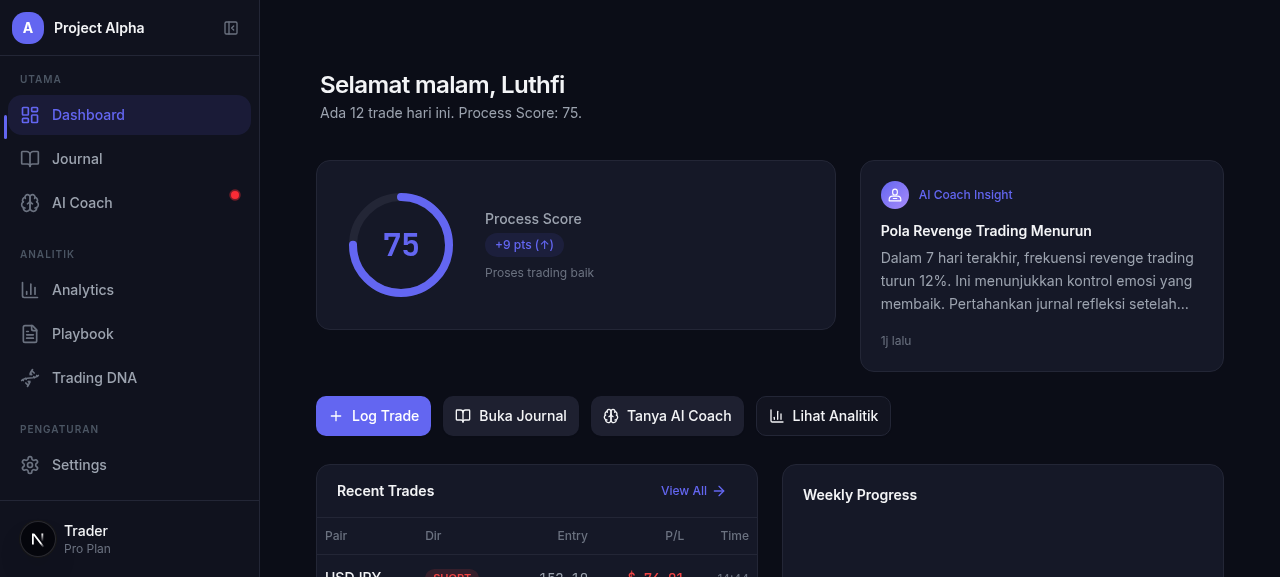
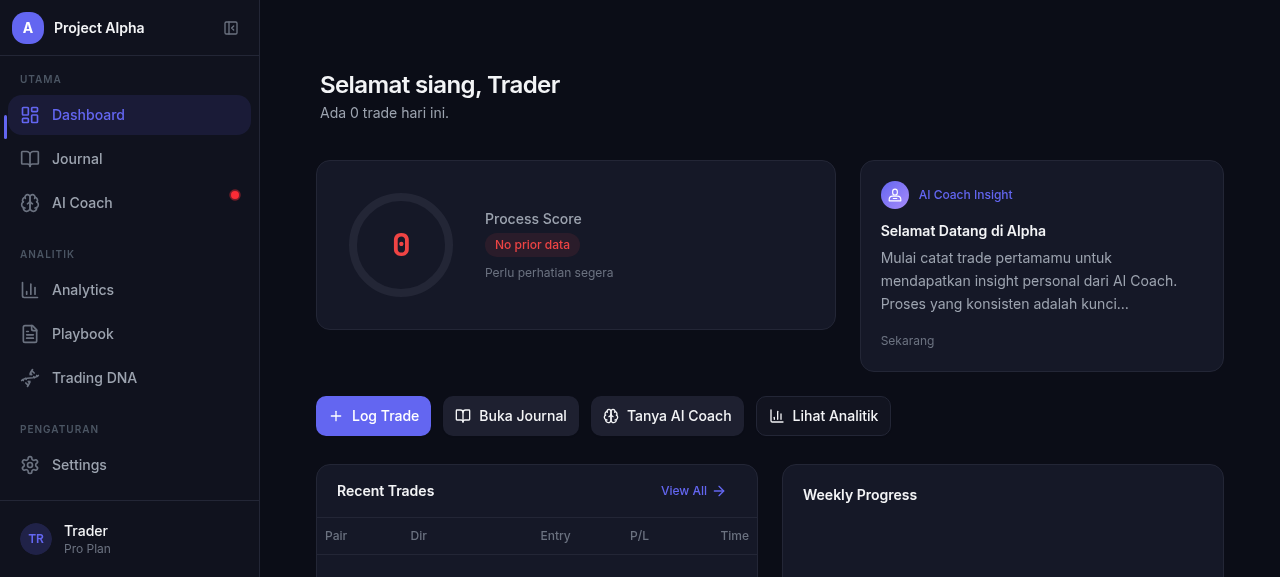
fix: add debug error info to dashboard API for diagnosis

diff --git a/src/app/api/dashboard/route.ts b/src/app/api/dashboard/route.ts
@@ -130,8 +130,10 @@ export async function GET() {
     })
   } catch (error) {
     console.error('[GET /api/dashboard] Error:', error)
+    const message = error instanceof Error ? error.message : String(error)
+    const stack = error instanceof Error ? error.stack?.slice(0, 500) : undefined
     return NextResponse.json(
-      { error: 'Failed to fetch dashboard data' },
+      { error: 'Failed to fetch dashboard data', debug: { message, stack } },
       { status: 500 }
     )
   }
